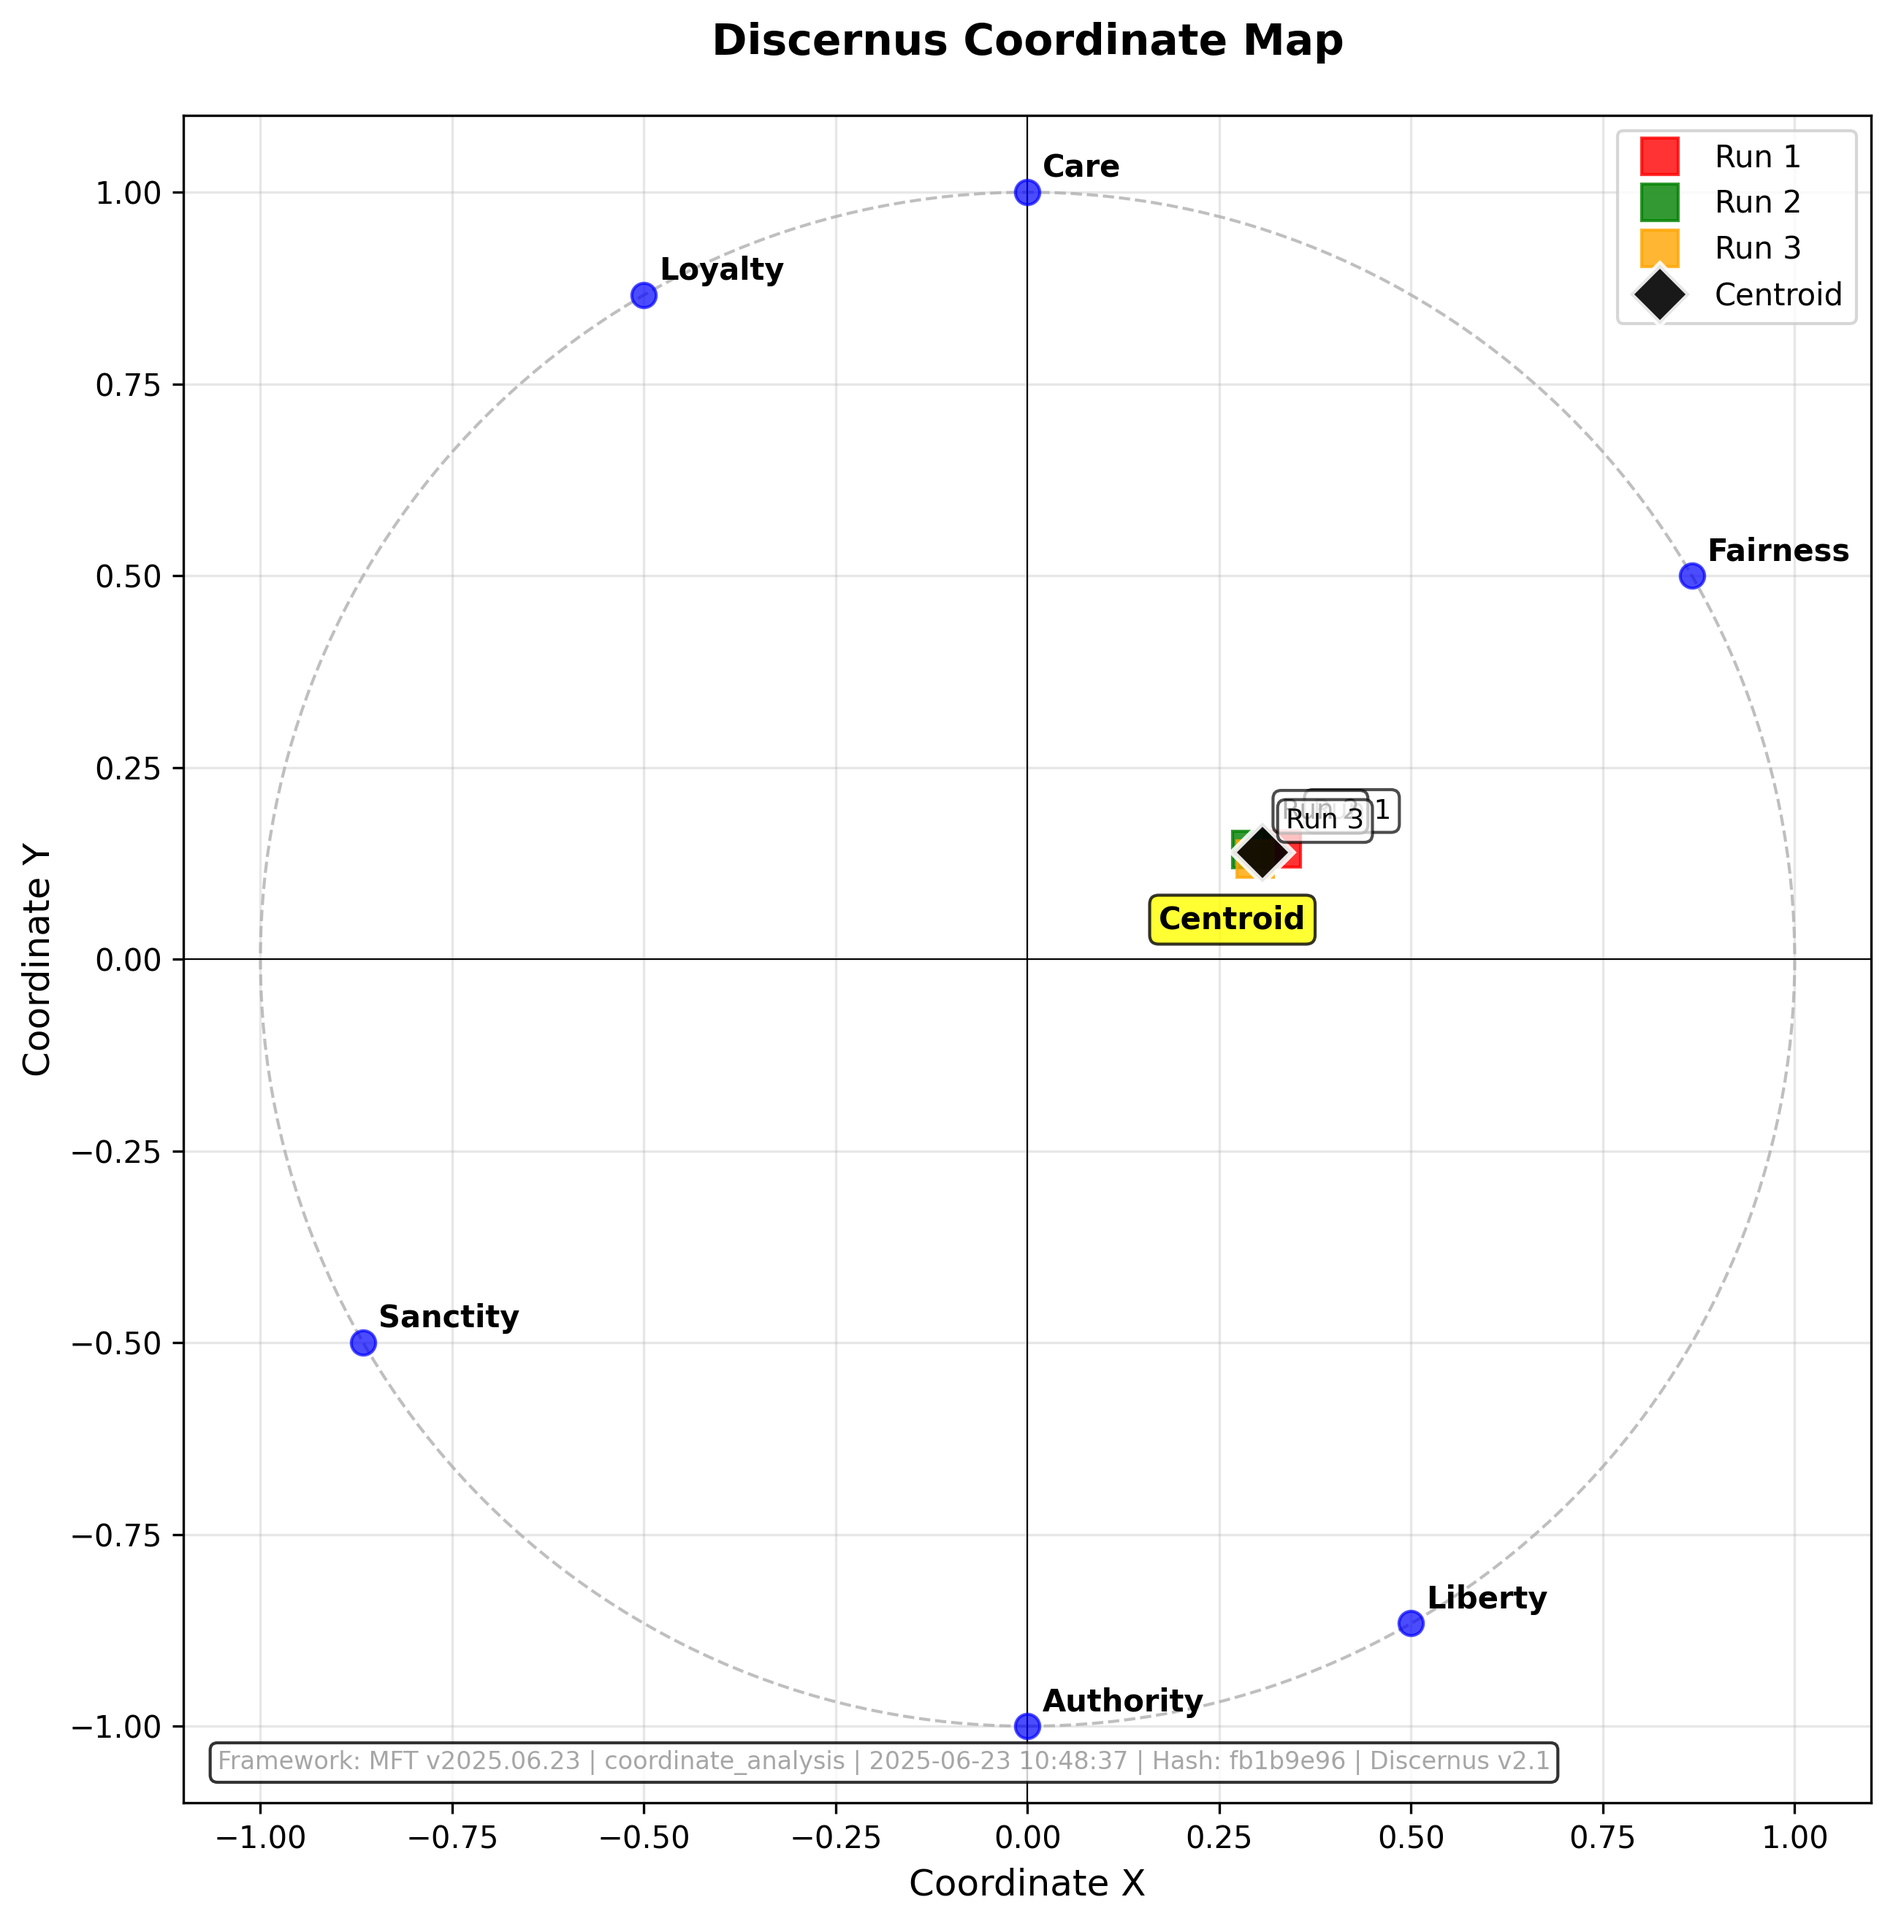
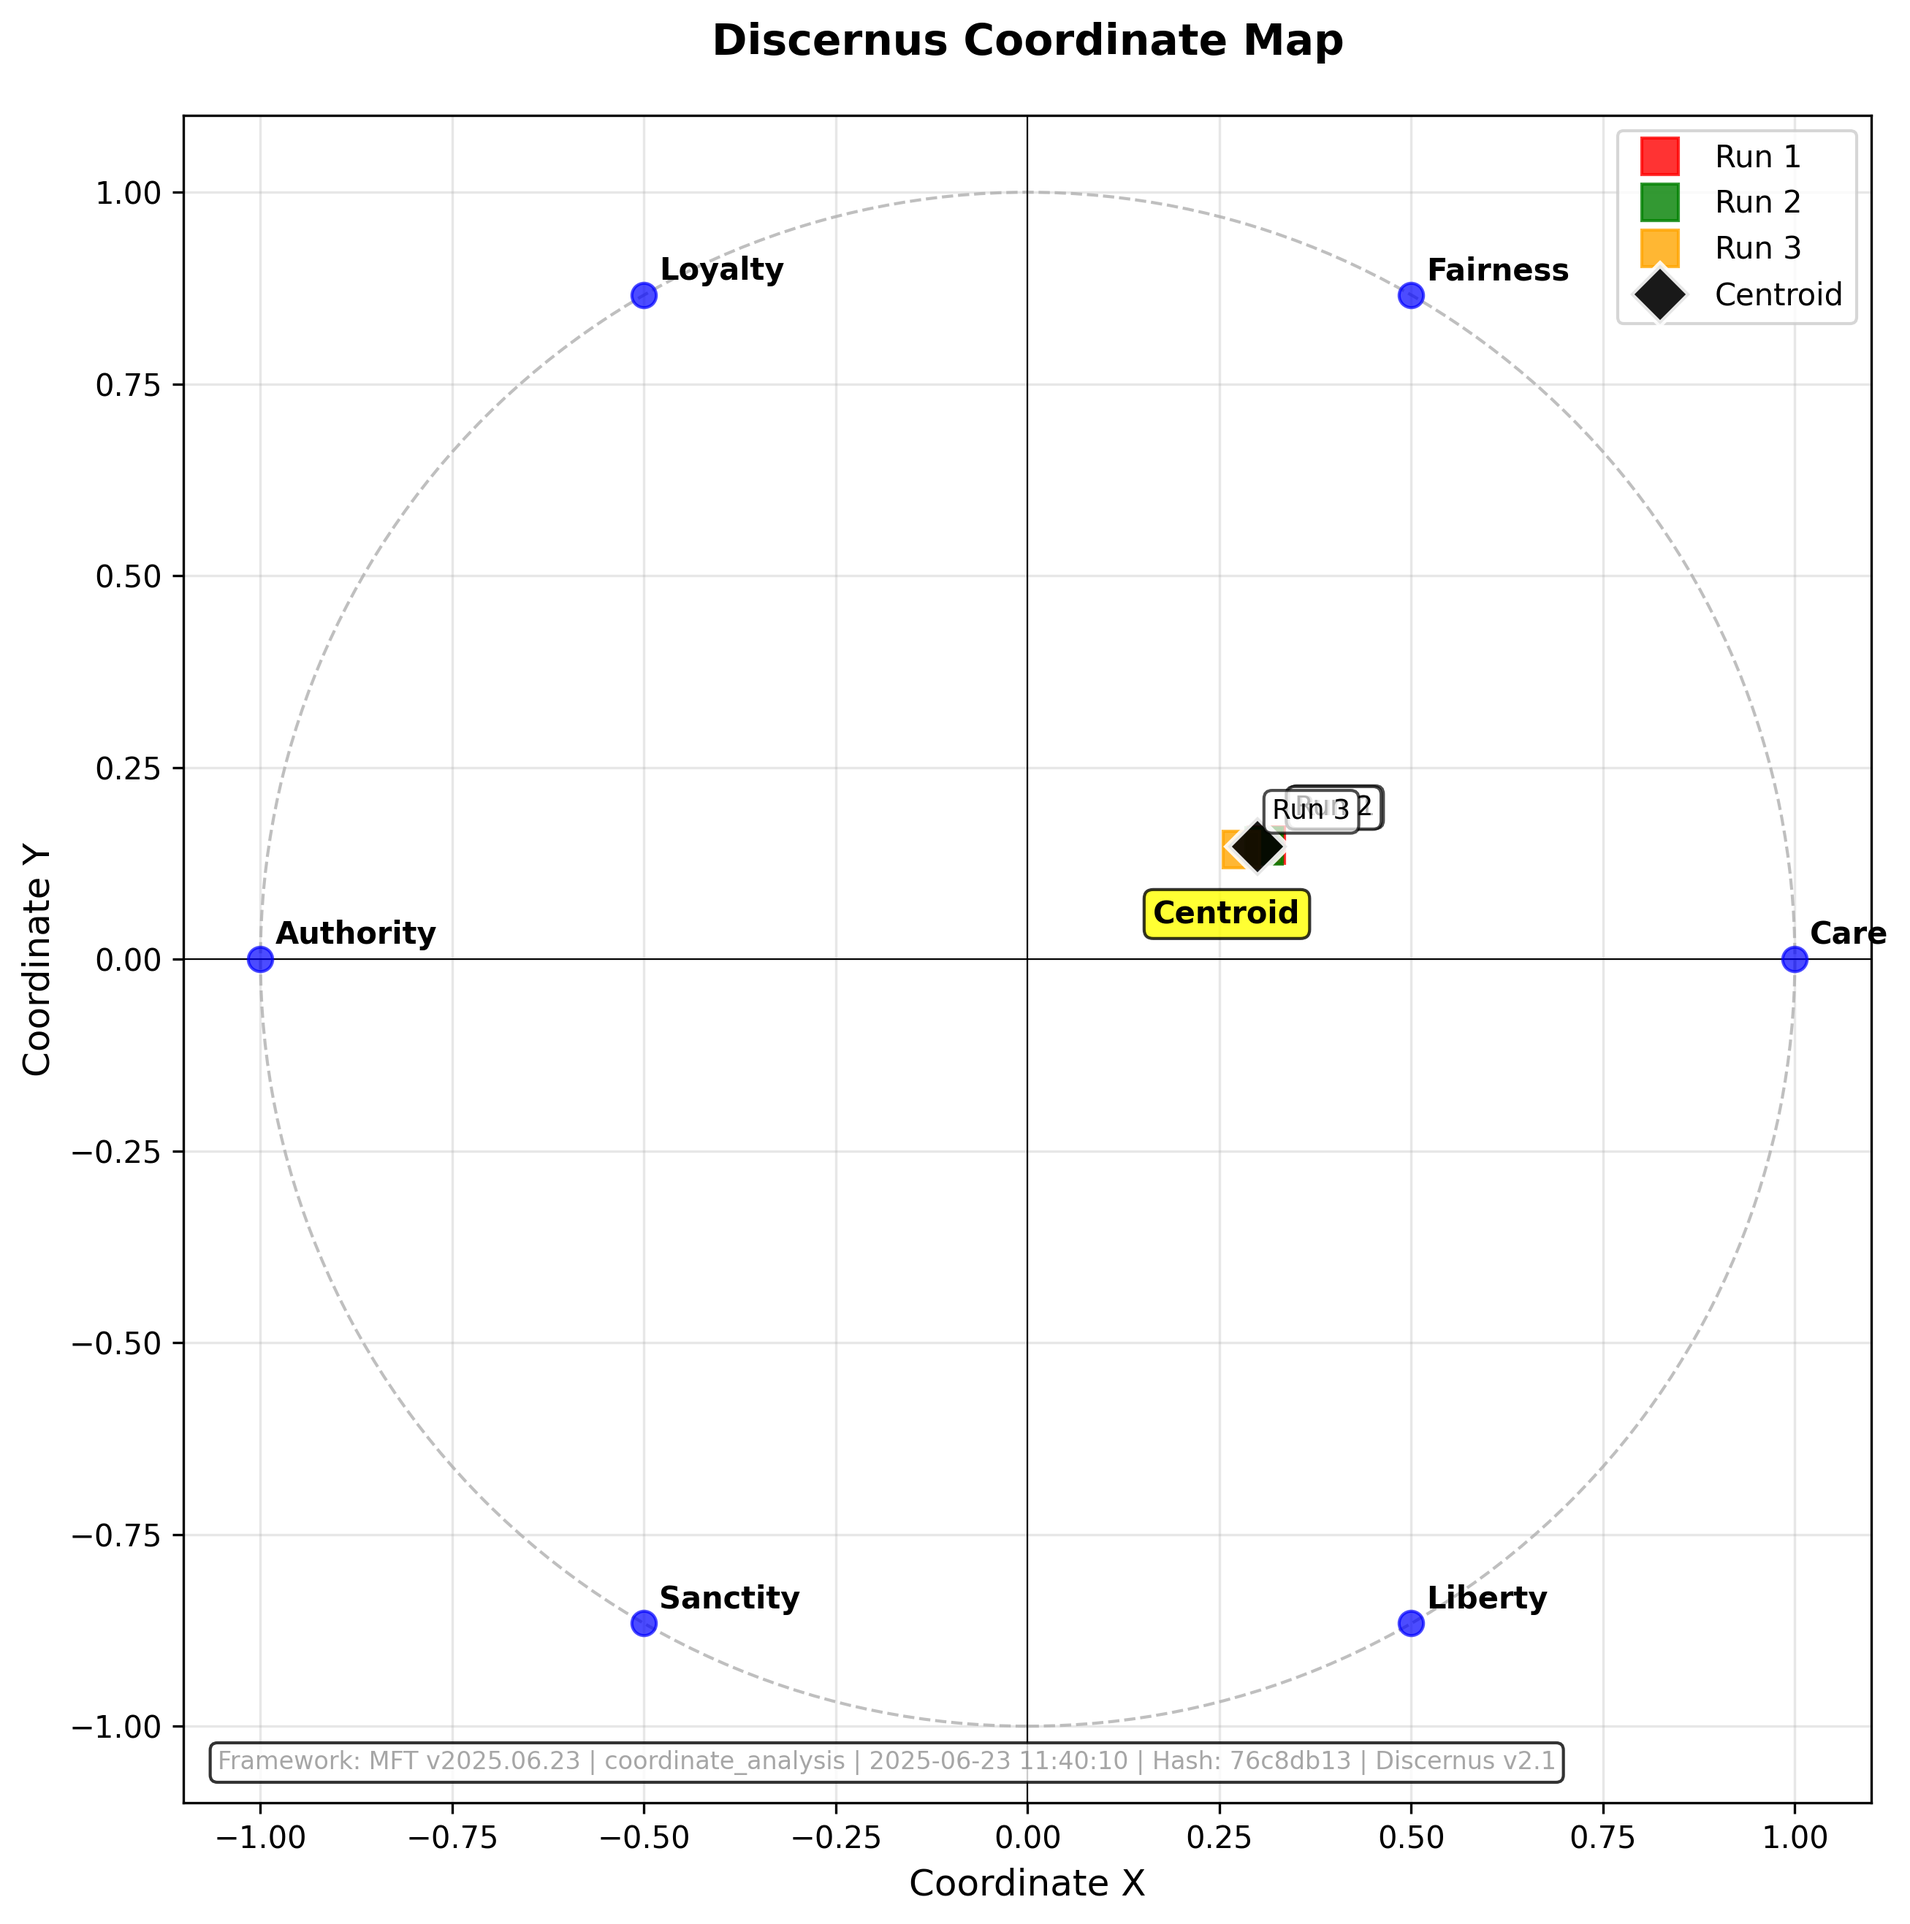
fix: Anchor positioning consistency using framework coordinate engine
🎯 ANCHOR POSITIONING CORRECTED:
- Fixed coordinate plot anchors to use coordinate engine's circle_point() method
- Fixed radar chart angles to use framework definition directly
- Both charts now use identical positioning from MFT framework angles
- Eliminated manual coordinate calculations that caused positioning mismatches

🗺 FRAMEWORK INTEGRATION:
- Coordinate plot loads framework and calculates anchor positions dynamically
- Radar chart loads framework and uses actual angle definitions
- Consistent with coordinate engine's narrative positioning calculations
- Fallback to standard coordinates if framework loading fails

Result: Both charts now have mathematically consistent anchor positioning

diff --git a/tests/system_health/test_system_health.py b/tests/system_health/test_system_health.py
@@ -72,16 +72,30 @@ class DiscernusVisualizationEngine:
         circle = patches.Circle((0, 0), 1.0, fill=False, color='gray', linestyle='--', alpha=0.5)
         ax.add_patch(circle)
         
-        # Add anchor positions (using MFT framework geometry)
-        # Positions calculated from framework angles: Care=0°, Fairness=60°, Loyalty=120°, Authority=180°, Sanctity=240°, Liberty=300°
-        anchors = {
-            'Care': (0, 1),                    # 0° - top
-            'Fairness': (0.866, 0.5),         # 60° - upper right  
-            'Loyalty': (-0.5, 0.866),         # 120° - upper left
-            'Authority': (0, -1),              # 180° - bottom
-            'Sanctity': (-0.866, -0.5),       # 240° - lower left
-            'Liberty': (0.5, -0.866)          # 300° - lower right
-        }
+        # Add anchor positions using the same coordinate system as the framework
+        # Load the actual framework to get consistent positioning
+        anchors = {}
+        try:
+            from src.coordinate_engine import DiscernusCoordinateEngine
+            engine = DiscernusCoordinateEngine(framework_path='tests/system_health/frameworks/moral_foundations_theory/moral_foundations_theory_framework.yaml')
+            
+            # Use the same calculation method as the coordinate engine
+            for anchor_name, anchor_info in engine.well_definitions.items():
+                angle = anchor_info['angle']
+                x, y = engine.circle_point(angle)
+                anchors[anchor_name] = (x, y)
+                
+        except Exception as e:
+            print(f"Warning: Could not load framework for anchor positioning: {e}")
+            # Fallback to manual positioning if framework loading fails
+            anchors = {
+                'Care': (1, 0),     # 0° in standard coordinates
+                'Fairness': (0.5, 0.866),     # 60°
+                'Loyalty': (-0.5, 0.866),     # 120°
+                'Authority': (-1, 0),          # 180°
+                'Sanctity': (-0.5, -0.866),   # 240°
+                'Liberty': (0.5, -0.866)      # 300°
+            }
         
         for anchor_name, (x, y) in anchors.items():
             ax.plot(x, y, 'o', markersize=8, color='blue', alpha=0.7)
@@ -189,11 +203,26 @@ class DiscernusVisualizationEngine:
         values += values[:1]
         foundations_display = [f.title() for f in foundations] + [foundations[0].title()]
         
-        # Use MFT framework angles (convert degrees to radians, adjust for matplotlib polar coordinate system)
-        # Matplotlib polar: 0° = right, 90° = top, so we need to rotate by 90° 
-        framework_angles_deg = [0, 60, 120, 180, 240, 300]  # MFT framework angles
-        matplotlib_angles_deg = [(90 - angle) % 360 for angle in framework_angles_deg]  # Rotate to match matplotlib
-        angles = [np.deg2rad(angle) for angle in matplotlib_angles_deg]
+        # Use MFT framework angles directly from the framework definition
+        angles = []
+        try:
+            from src.coordinate_engine import DiscernusCoordinateEngine
+            engine = DiscernusCoordinateEngine(framework_path='tests/system_health/frameworks/moral_foundations_theory/moral_foundations_theory_framework.yaml')
+            
+            # Get angles in the same order as foundations list
+            for foundation in foundations:
+                if foundation in engine.well_definitions:
+                    angle_deg = engine.well_definitions[foundation]['angle']
+                    angles.append(np.deg2rad(angle_deg))
+                else:
+                    angles.append(0)  # Default if not found
+                    
+        except Exception as e:
+            print(f"Warning: Could not load framework for radar angles: {e}")
+            # Fallback to standard angles if framework loading fails
+            framework_angles_deg = [0, 60, 120, 180, 240, 300]  # Standard MFT angles
+            angles = [np.deg2rad(angle) for angle in framework_angles_deg]
+            
         angles += angles[:1]  # Close the radar chart
         
         fig, ax = plt.subplots(figsize=(10, 10), subplot_kw=dict(projection='polar'))

diff --git a/tests/system_health/results/last_experiment_report.md b/tests/system_health/results/last_experiment_report.md
@@ -36,5 +36,5 @@ We must protect innocent children from harm and ensure they receive fair treatme
   ]
 }
 
-Generated: 2025-06-23T10:48:37.886228
+Generated: 2025-06-23T11:40:10.031070
             
